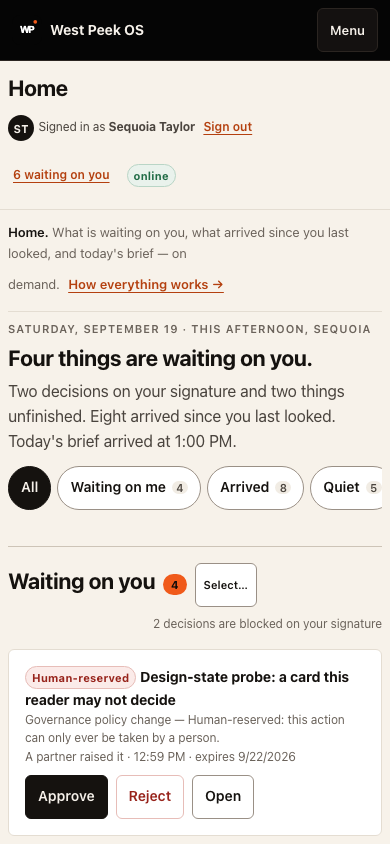
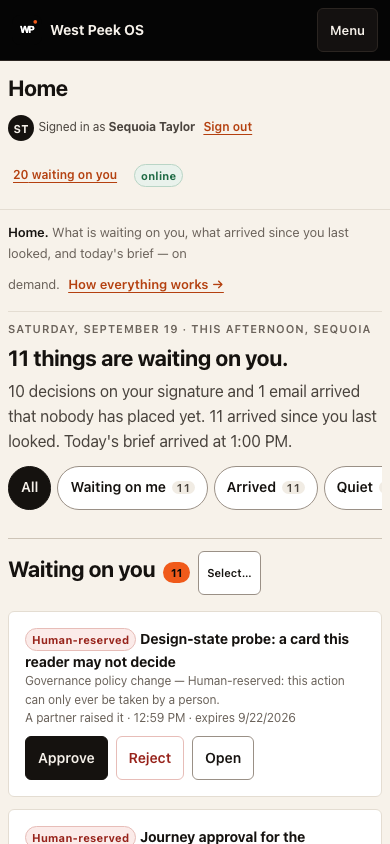
The 7 AM screen on the runner's font stack: the Waiting band's echo line hidden on a phone, bands one step closer
CI measured the first waiting row's bottom at 862px on 390×844 (Linux fonts
wrap a line earlier than here, where it was 840). The band-head line that
repeats the masthead's detail is hidden on the phone; bands and the rail sit
one step closer. Locally the first row now ends at 801px.

Claude-Session: https://claude.ai/code/session_01UUsPbvp7jKQWTVTCBq2d8k

diff --git a/src/client/styles.css b/src/client/styles.css
@@ -5968,6 +5968,13 @@ body {
   .page-purpose-can { display: none; }
   .surface-identity { margin-top: var(--space-2xs); gap: var(--space-2xs) var(--space-sm); }
   .masthead { margin-bottom: var(--space-md); }
+  /* A band-head line that echoes the masthead's detail is hidden on the phone; bands sit one step
+     closer. Measured on the CI runner's font stack, where text wraps a line earlier than here:
+     the first waiting row's bottom was 862px at 390×844 with these in place. */
+  .band-when-echo { display: none; }
+  .band { margin-top: var(--space-xl); }
+  .band-head { padding-top: var(--space-md); }
+  .rail { margin-bottom: var(--space-md); }
   .stage-rail { position: relative; flex-direction: column; gap: 0; }
   /* The edge runs through the node's centre — half a 40px node less half the 2px line — drawn
      behind the nodes rather than pushed into place with an off-scale margin. */

diff --git a/src/client/pages/HomePage.tsx b/src/client/pages/HomePage.tsx
@@ -435,7 +435,9 @@ export function HomePage({ me, onNavigate }: { me: MeResponse; onNavigate: (key:
                 {waitingSelect ? "Cancel" : "Select…"}
               </button>
             )}
-            <span className="band-when" data-testid="home-waiting-when">
+            {/* `band-when-echo`: this line says what the masthead's detail already said, ninety
+                pixels up — on a phone it is hidden so the first row stays whole above the fold. */}
+            <span className="band-when band-when-echo" data-testid="home-waiting-when">
               {waitingCount === 0
                 ? "no decision is blocked on your signature"
                 : undecided.length + previews.previews.length === 0
